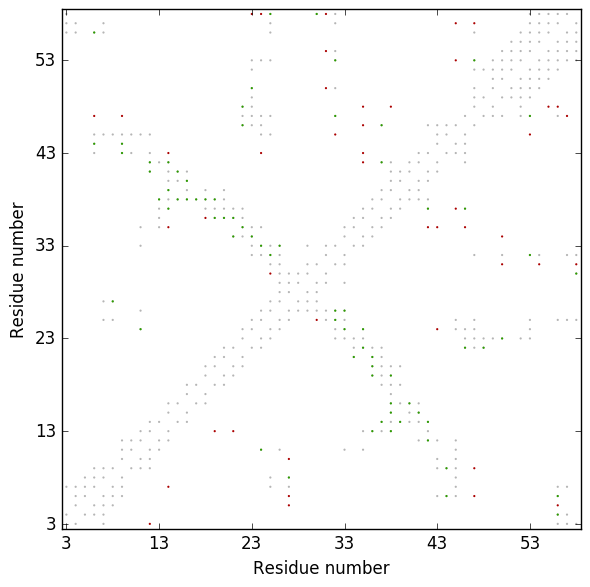
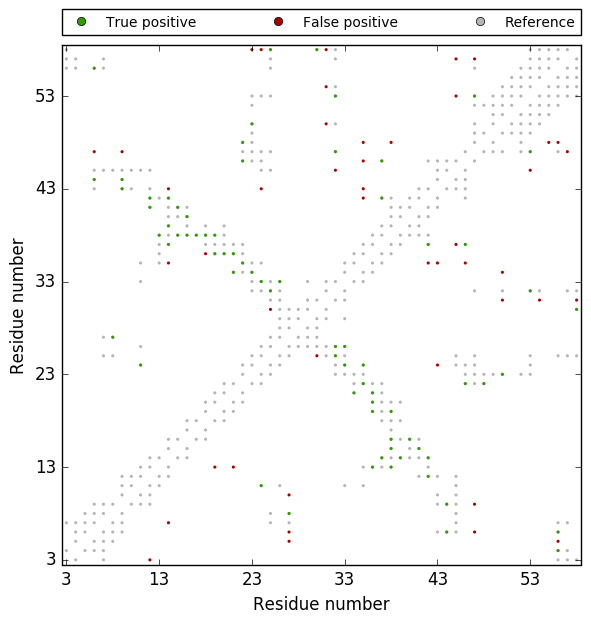
figure legend added to contact map; example figures updated; doc file renamed and rereferenced

diff --git a/conkit/plot.py b/conkit/plot.py
@@ -67,7 +67,6 @@ def contact_map(hierarchy, other=None, reference=None, altloc=False, dpi=300,
         raise RuntimeError("Provided reference hierarchy is not a ContactMap")
 
     fig, ax = matplotlib.pyplot.subplots(dpi=dpi)
-    markersize = 10
 
     # Plot the other_ref contacts
     if reference:
@@ -79,9 +78,9 @@ def contact_map(hierarchy, other=None, reference=None, altloc=False, dpi=300,
                                             for c in reference if c.is_true_positive])
         reference_colors = [constants.RFCOLOR for _ in range(len(reference_data))]
         ax.scatter(reference_data.T[0], reference_data.T[1], color=reference_colors,
-                   marker='.', s=markersize, edgecolor='none', linewidths=0.0)
+                   marker='.', edgecolor='none', linewidths=0.0)
         ax.scatter(reference_data.T[1], reference_data.T[0], color=reference_colors,
-                   marker='.', s=markersize, edgecolor='none', linewidths=0.0)
+                   marker='.', edgecolor='none', linewidths=0.0)
 
     # Plot the self contacts
     self_data = numpy.asarray([(c.res1_seq, c.res2_seq) for c in hierarchy])
@@ -92,7 +91,7 @@ def contact_map(hierarchy, other=None, reference=None, altloc=False, dpi=300,
     ]
     # This is the bottom triangle
     ax.scatter(self_data.T[1], self_data.T[0], color=self_colors,
-               marker='.', s=markersize, edgecolor='none', linewidths=0.0)
+               marker='.', edgecolor='none', linewidths=0.0)
 
     # Plot the other contacts
     if other:
@@ -104,16 +103,11 @@ def contact_map(hierarchy, other=None, reference=None, altloc=False, dpi=300,
         ]
         # This is the upper triangle
         ax.scatter(other_data.T[0], other_data.T[1], color=other_colors,
-                   marker='.', s=markersize, edgecolor='none', linewidths=0.0)
+                   marker='.', edgecolor='none', linewidths=0.0)
     else:
         # This is the upper triangle
         ax.scatter(self_data.T[0], self_data.T[1], color=self_colors,
-                   marker='.', s=markersize, edgecolor='none', linewidths=0.0)
-
-    # Prettify the plot
-    label = 'Residue number'
-    ax.set_xlabel(label)
-    ax.set_ylabel(label)
+                   marker='.', edgecolor='none', linewidths=0.0)
 
     # Allow dynamic x and y limits
     min_res_seq = numpy.min(self_data.ravel())
@@ -129,6 +123,27 @@ def contact_map(hierarchy, other=None, reference=None, altloc=False, dpi=300,
     ax.set_xticks(tick_range)
     ax.set_yticks(tick_range)
 
+    # Prettify the plot
+    ax.set_xlabel('Residue number')
+    ax.set_ylabel('Residue number')
+
+    # Create a custom legend
+    if reference:
+        tp_artist = matplotlib.pyplot.Line2D((0, 1), (0, 0), color=constants.TPCOLOR,
+                                             marker='o', linestyle='', label='True positive')
+        fp_artist = matplotlib.pyplot.Line2D((0, 1), (0, 0), color=constants.FPCOLOR,
+                                             marker='o', linestyle='', label='False positive')
+        rf_artist = matplotlib.pyplot.Line2D((0, 1), (0, 0), color=constants.RFCOLOR,
+                                             marker='o', linestyle='', label='Reference')
+        artists = [tp_artist, fp_artist, rf_artist]
+    else:
+        nt_artist = matplotlib.pyplot.Line2D((0, 1), (0, 0), color=constants.NTCOLOR,
+                                             marker='o', linestyle='', label='Contact')
+        artists = [nt_artist]
+    ax.legend(handles=artists, numpoints=1, fontsize=10, bbox_to_anchor=(0., 1.02, 1., .102),
+              loc=3, ncol=3, mode="expand", borderaxespad=0.)
+
+    # Make both axes identical in length and remove whitespace around the plot
     ax.set(aspect=1.0)
     fig.tight_layout()
 
@@ -193,9 +208,9 @@ def sequence_coverage(hierarchy, dpi=300, file_name='seqcov.png', file_format='p
     # Prettify the plot
     ax.set_xlabel('Residue number')
     ax.set_ylabel('Sequence Count')
-    ax.legend(bbox_to_anchor=(0., 1.02, 1., .102), loc=3,
-              ncol=3, mode="expand", borderaxespad=0., frameon=None)
+    ax.legend(bbox_to_anchor=(0., 1.02, 1., .102), loc=3, ncol=3, mode="expand", borderaxespad=0.)
 
+    # Make axes length proportional and remove whitespace around the plot
     ax.set(aspect=0.3)
     fig.tight_layout()
 

diff --git a/docs/examples/plot_map.rst b/docs/examples/plot_map.rst
@@ -1,7 +1,7 @@
 .. _example_plotting_a_map:
 
-Contact Map Plotting
---------------------
+Plotting a contact map
+----------------------
 
 .. warning::
    You require the `Matplotlib <http://matplotlib.org/>`_ package to use this script. If you are unsure if it is installed on your system, refer to the :ref:`installation` documentation
@@ -10,8 +10,6 @@ Using a script
 ^^^^^^^^^^^^^^
 
 If you would like to plot a contact map using ConKit without the overhead of using Python, you can simply use the ``conkit.plot_map`` script.
-
---------------------------------------------------------------
 
 .. code-block:: bash
 
@@ -62,8 +60,6 @@ Using Python
 ^^^^^^^^^^^^
 
 Two simplified versions of the ``conkit.plot_map`` script is shown below to illustrate how you can plot your own contact map using Python.
-
---------------------------------------------------------------
 
 .. only:: html
 

diff --git a/docs/examples/construct_hierarchy.rst b/docs/examples/construct_hierarchy.rst
@@ -1,6 +1,6 @@
 .. _example_construct_hierarchy:
 
-Constructing a ConKit ContactFile Hierarchy
+Constructing a ConKit ContactFile hierarchy
 -------------------------------------------
 
 .. warning::
